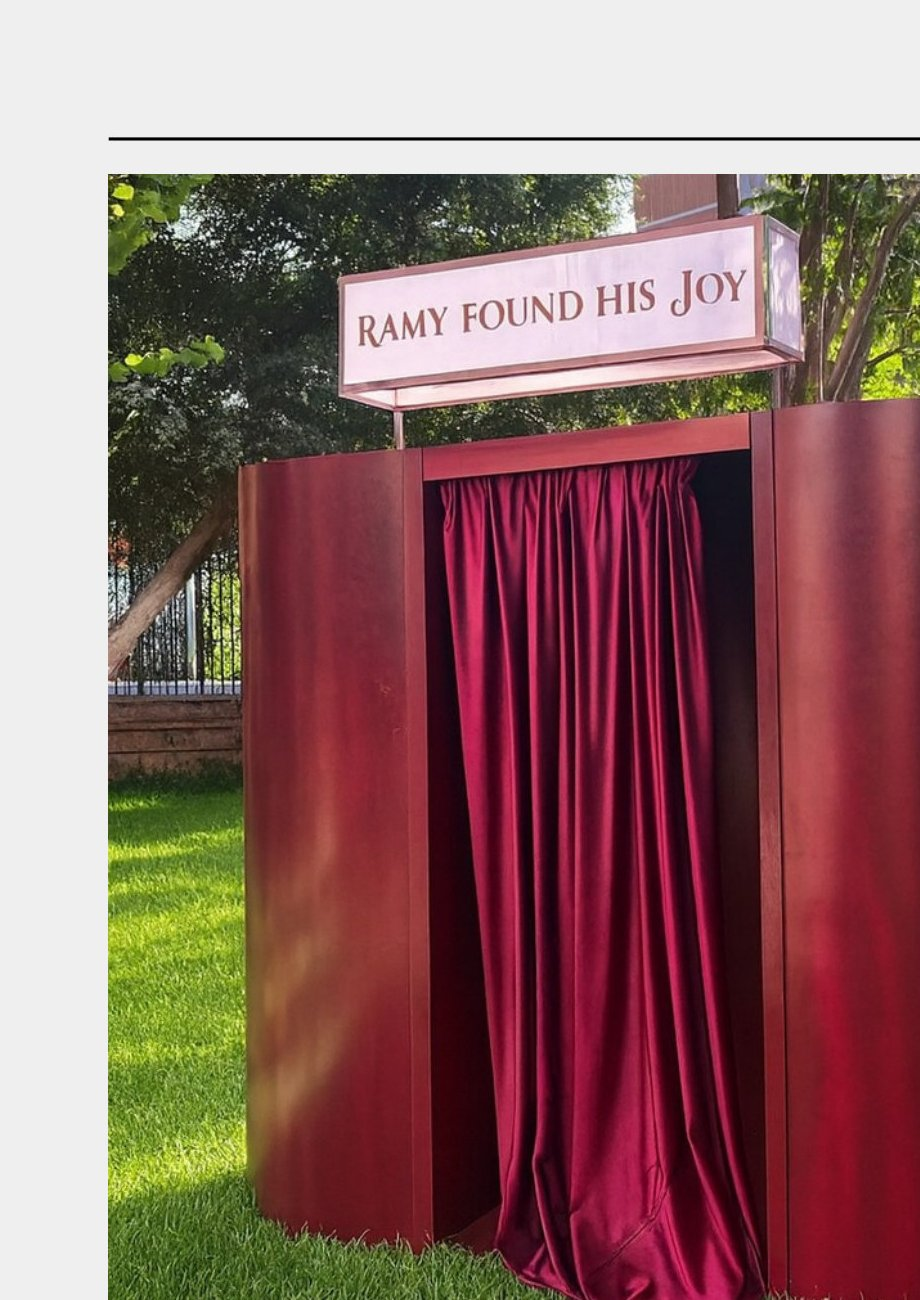
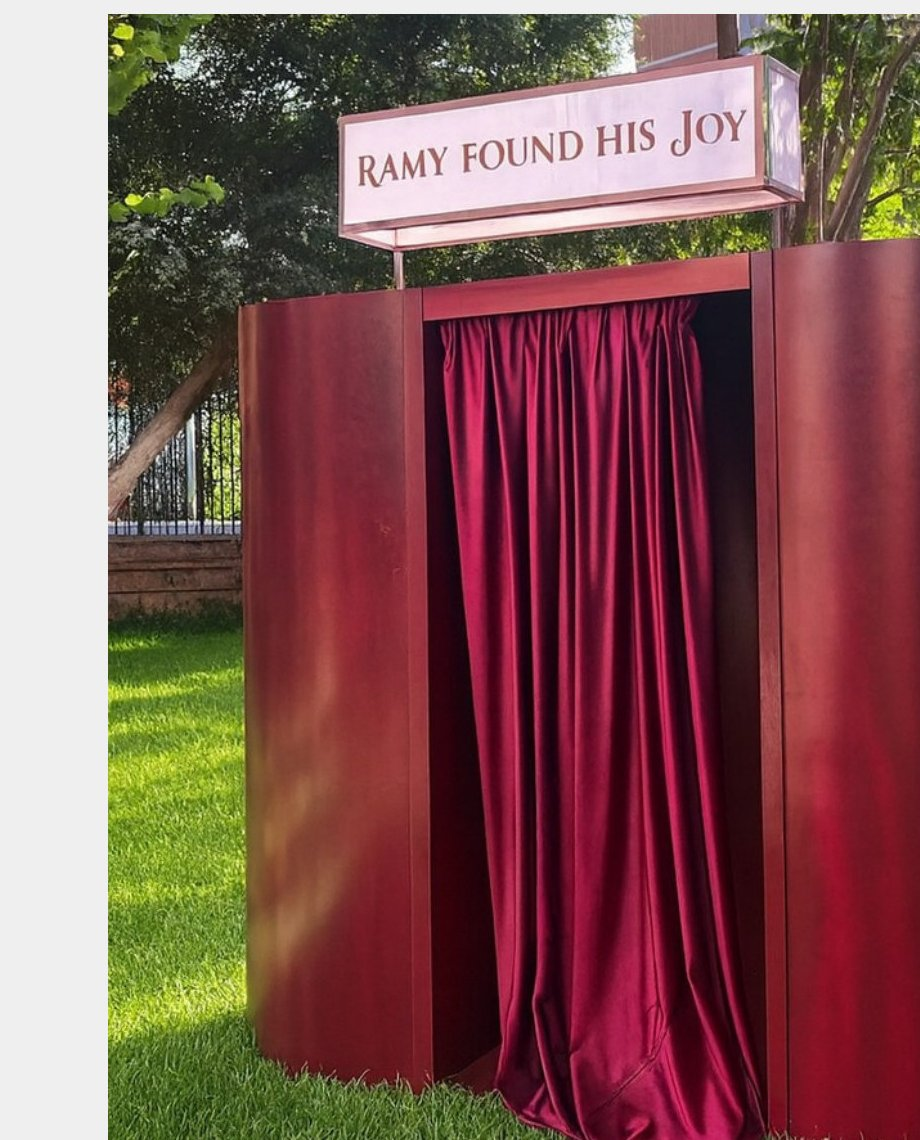
fix: cleaner Room Booth crop + object-top on cards

diff --git a/src/pages/Services.tsx b/src/pages/Services.tsx
@@ -206,7 +206,7 @@ const Services = () => (
                   loading="lazy"
                   width={800}
                   height={600}
-                  className="h-full w-full object-contain bg-muted transition-transform duration-500 group-hover:scale-105"
+                  className="h-full w-full object-cover object-top transition-transform duration-500 group-hover:scale-105"
                 />
               </div>
               <div className="flex flex-1 flex-col p-5">
